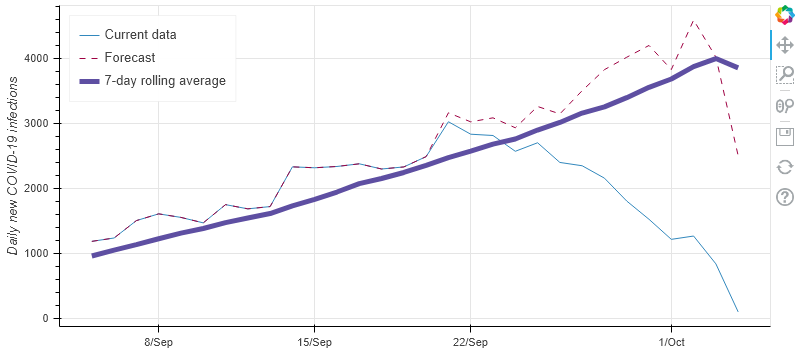
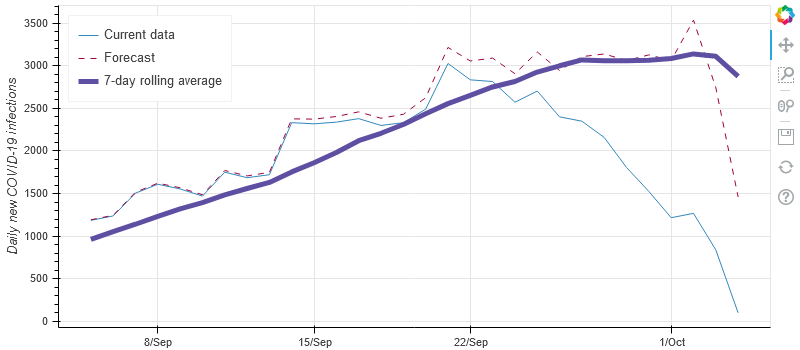
Increase available lags in COVID-19_lagged.csv

diff --git a/covid_19/tests/nl/test_forecasting.py b/covid_19/tests/nl/test_forecasting.py
@@ -4,9 +4,10 @@ import pandas as pd
 import datetime
 
 from covid_19.nl.dataretrieval import get_rivm_files_historical, get_lagged_values, get_cases_per_day_from_data_frame, \
-    get_rivm_file_historical
+    get_rivm_file_historical, get_cases_per_day_historical
 from covid_19.nl.forecasting import get_scaling_coefficient, forecast_daily_cases_from_data_frames, \
-    recreate_lagged_values, create_lagged_values, create_lagged_values_differences
+    recreate_lagged_values, create_lagged_values_array, create_lagged_values_differences, \
+    create_lagged_values_data_frame
 from covid_19.tests.test_pandasutils import assert_frame_equal
 
 
@@ -60,22 +61,34 @@ def test_recreate_lagged_values(covid_19_lagged_values):
 @pytest.mark.skip("Run manually")
 def test_reperform_forecasting():
     first_date = datetime.date(2020, 7, 1)
-    most_recent_date = datetime.date(2020, 10, 3)
-    beta = 0.2
+    most_recent_date = datetime.date(2020, 10, 4)
+    beta = 0.0
     current_path = os.path.dirname(os.path.realpath(__file__))
-    df_lagged_most_recent = get_lagged_values(os.path.join(current_path, r"../../../"))
-    df_rivm = get_rivm_files_historical(first_date, most_recent_date)
+    df_lagged_most_recent = get_lagged_values(os.path.join(current_path, r"../../../"), 14)
+    cases_per_day_list = get_cases_per_day_historical(first_date, most_recent_date)
 
     start_date = datetime.date(2020, 8, 1)
     end_date = most_recent_date
+    offset = (start_date - first_date).days
     for i in range(0, (end_date - start_date).days + 1):
         dt = start_date + datetime.timedelta(days=i)
-        df_daily_cases = get_cases_per_day_from_data_frame(df_rivm, dt)
+        df_daily_cases = cases_per_day_list[offset + i][1]
         df_lagged = recreate_lagged_values(df_lagged_most_recent, dt)
         df_lagged = df_lagged[first_date:dt]
         df_forecast = forecast_daily_cases_from_data_frames(df_daily_cases, df_lagged, beta)
         df_forecast = df_forecast.rolling(window=7).mean().dropna()
         print(df_forecast.iloc[-1])
+
+
+@pytest.mark.skip("Only run locally")
+def test_generate_lagged_values():
+    start_date = datetime.date(2020, 7, 1)
+    end_date = datetime.date(2020, 10, 4)
+
+    cases_per_day_list = get_cases_per_day_historical(start_date, end_date)
+    lagged_values_df = create_lagged_values_data_frame(cases_per_day_list, maximum_lag=31)
+
+    lagged_values_df.to_csv(r"c:\temp\df_lagged.csv")
 
 
 @pytest.mark.skip("Only run locally")
@@ -91,7 +104,7 @@ def test_generate_differences():
         date_list.append(dt)
 
     num_lags = (end_date - start_date).days + 1
-    bla = create_lagged_values(df_list, date_list)
+    bla = create_lagged_values_array(df_list, date_list)
     df = pd.DataFrame(bla, index=pd.date_range(start=start_date.strftime("%Y-%m-%d"),
                                                end=end_date.strftime("%Y-%m-%d")),
                       columns=range(num_lags))

diff --git a/covid_19/nl/forecasting.py b/covid_19/nl/forecasting.py
@@ -4,6 +4,7 @@ import numpy as np
 from numpy import linalg
 from covid_19.pandasutils import filter_series
 import math
+import pandas as pd
 
 
 def get_scaling_coefficient(lag, df_most_recent, df_lagged_values, first_date, last_date, beta=0.0):
@@ -30,6 +31,7 @@ def forecast_daily_cases_from_data_frames(df_daily_cases, df_lagged_values, beta
     first_date = min(df_lagged_values.index).date()
     last_column = df_lagged_values.columns[-1]
     last_accurate_date = min(df_lagged_values[df_lagged_values[last_column].isna()].index - datetime.timedelta(days=1))
+    last_accurate_date = last_accurate_date.date()
 
     for i in range(len(df_lagged_values.columns)):
         scaling = get_scaling_coefficient(i, df_daily_cases, df_lagged_values, first_date, last_accurate_date, beta)
@@ -48,7 +50,22 @@ def recreate_lagged_values(df_lagged, dt: datetime.date):
     return df
 
 
-def create_lagged_values(cases_per_day_list, maximum_lag=np.inf):
+def create_lagged_values_data_frame(cases_per_day_list, maximum_lag=np.inf):
+    lagged_values_array = create_lagged_values_array(cases_per_day_list, maximum_lag)
+    date_list = list(map(lambda x: x[0], cases_per_day_list))
+    first_date = min(date_list)
+    last_date = max(date_list)
+
+    if maximum_lag is np.inf:
+        maximum_lag = (last_date - first_date).days
+
+    return pd.DataFrame(lagged_values_array, index=pd.date_range(
+        start=first_date.strftime("%Y-%m-%d"),
+        end=last_date.strftime("%Y-%m-%d")),
+                      columns=list(range(maximum_lag+1)))
+
+
+def create_lagged_values_array(cases_per_day_list, maximum_lag=np.inf):
     date_list = list(map(lambda x: x[0], cases_per_day_list))
     first_date = min(date_list)
     last_date = max(date_list)
@@ -61,10 +78,13 @@ def create_lagged_values(cases_per_day_list, maximum_lag=np.inf):
         df_cases_i = cases_per_day_list[i][1]
         for j in range(i + 1):
             dt_j = (first_date + datetime.timedelta(days=j)).strftime("%Y-%m-%d")
+            if i-j > maximum_lag:
+                continue
+
             if dt_j in df_cases_i.index:
                 lagged_array[j, i-j] = df_cases_i[dt_j]
             else:
-                lagged_array[j, i - j] = 0
+                lagged_array[j, i-j] = 0
 
     return lagged_array
 

diff --git a/covid_19/nl/dataretrieval.py b/covid_19/nl/dataretrieval.py
@@ -1,6 +1,7 @@
 import pandas as pd
 from covid_19.pandasutils import filter_data_frame
 import datetime
+import numpy as np
 
 
 def get_rivm_file_historical(date_file):
@@ -68,8 +69,11 @@ def get_cases_per_day_historical(from_date, to_date):
     return cases_per_day_list
 
 
-def get_lagged_values(folder):
-    return pd.read_csv(folder + r"data\nl\COVID-19_lagged.csv", index_col=0, header=0, parse_dates=True)
+def get_lagged_values(folder, maximum_lag=np.inf):
+    df = pd.read_csv(folder + r"data\nl\COVID-19_lagged.csv", index_col=0, header=0, parse_dates=True)
+    if maximum_lag is np.inf:
+        return df
+    return df[df.columns[0:maximum_lag]]
 
 
 def get_measures(folder):

diff --git a/covid_19/tests/nl/test_updating.py b/covid_19/tests/nl/test_updating.py
@@ -57,5 +57,3 @@ def test_update_lagged_values():
     df_lagged_updated_expected = pd.read_csv(file_name_lagged_updated_expected, index_col=0, header=0, parse_dates=True)
 
     assert_frame_equal(df_lagged_updated, df_lagged_updated_expected)
-
-
